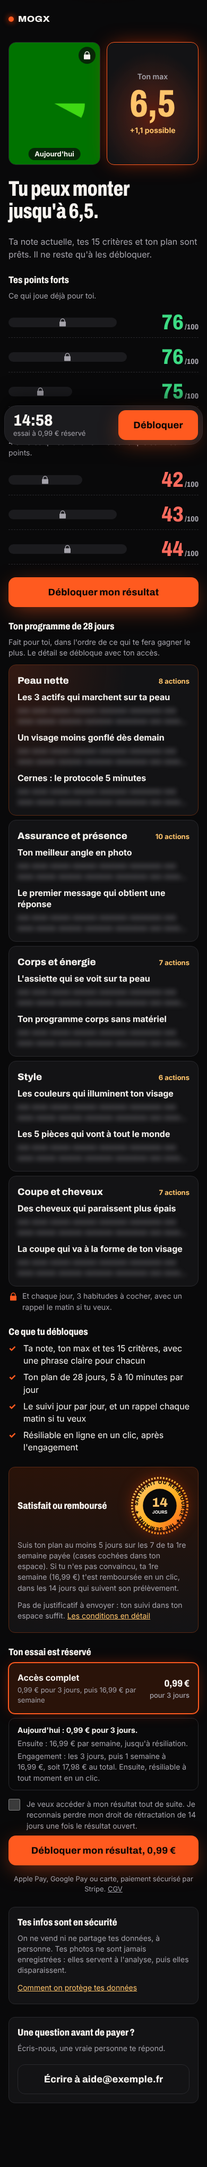
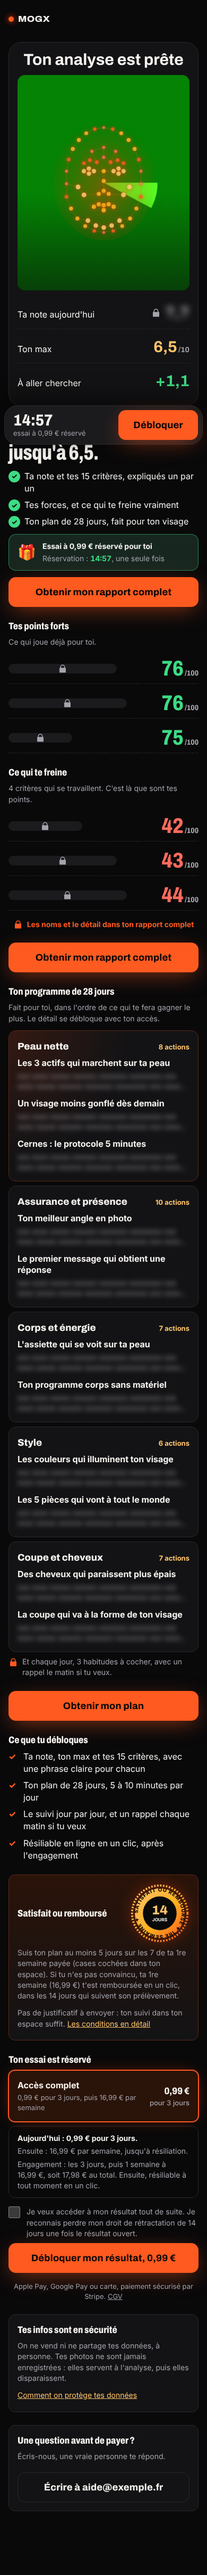
page de paiement plus poussée : analyse en grand sur la photo, avantages cochés, essai réservé avec le vrai minuteur, un bouton après chaque partie
Claude-Session: https://claude.ai/code/session_014jgUVVEcSY5o2hZDxT4Svp

diff --git a/src/q/app.js b/src/q/app.js
@@ -374,17 +374,31 @@ const VIEWS = {
     return `<main class="screen screen--sales">
       <div class="brand">MOGX</div>
       ${t.scanned ? `
-      <div class="duo">
-        <div class="duo__card">${scanPreview ? `<img src="${scanPreview}" alt="Ta photo">` : faceMesh({ className: "mesh" })}<span class="duo__tag">Aujourd'hui</span><span class="duo__lock">${lock}</span></div>
-        <div class="duo__card duo__card--hot"><span class="duo__label">Ton max</span><span class="duo__max">${esc(fr(t.max))}</span><span class="duo__gain">+${esc(fr(t.gain))} possible</span></div>
-      </div>
-      <h1 class="title title--hero" tabindex="-1">Tu peux monter jusqu'à ${esc(fr(t.max))}.</h1>
-      <p class="lead">Ta note actuelle, tes 15 critères et ton plan sont prêts. Il ne reste qu'à les débloquer.</p>
-      <section class="block"><h2 class="block__title">Tes points forts</h2><p class="block__lead">Ce qui joue déjà pour toi.</p>${t.strengths.map((f) => row(f, "hot")).join("")}</section>
-      <section class="block"><h2 class="block__title">Ce qui te freine</h2><p class="block__lead">${t.holding} critère${t.holding > 1 ? "s" : ""} qui se travaille${t.holding > 1 ? "nt" : ""}. C'est là que sont tes points.</p>${t.weaknesses.map((f) => row(f, "low")).join("")}</section>`
+      <section class="scanhero">
+        <h2 class="scanhero__title">Ton analyse est prête</h2>
+        <div class="scanhero__photo">${scanPreview ? `<img src="${scanPreview}" alt="Ta photo analysée">` : ""}${faceMesh({ className: "mesh scanhero__mesh" })}</div>
+        <div class="scanhero__rows">
+          <div class="scanhero__row"><span>Ta note aujourd'hui</span><b class="scanhero__locked">${lock}<i aria-hidden="true">?,?</i><span class="sr-only">cachée jusqu'au paiement</span></b></div>
+          <div class="scanhero__row"><span>Ton max</span><b class="scanhero__max">${esc(fr(t.max))}<small>/10</small></b></div>
+          <div class="scanhero__row"><span>À aller chercher</span><b class="scanhero__gain">+${esc(fr(t.gain))}</b></div>
+        </div>
+      </section>`
       : `<h1 class="title title--hero" tabindex="-1">Ton plan de 28 jours est prêt.</h1>
       <p class="lead">Fait d'après tes réponses, dans l'ordre de ce qui te pèse le plus.</p>`}
-      <button class="btn btn--primary" data-gopay>Débloquer mon résultat</button>
+      <section class="pitch">
+        ${t.scanned ? `<h1 class="title title--hero" tabindex="-1">Tu peux monter jusqu'à ${esc(fr(t.max))}.</h1>` : ""}
+        <ul class="pitch__list">
+          ${t.scanned ? "<li>Ta note et tes 15 critères, expliqués un par un</li><li>Tes forces, et ce qui te freine vraiment</li>" : "<li>Ton bilan d'après tes réponses</li>"}
+          <li>Ton plan de 28 jours, fait pour ${t.scanned ? "ton visage" : "toi"}</li>
+        </ul>
+        ${trial ? `<div class="reserved"><span class="reserved__icon" aria-hidden="true">🎁</span><span><b>Essai à ${esc(euros(o.intro))} réservé pour toi</b><span>Réservation : <b data-timer>--:--</b>, une seule fois</span></span></div>` : ""}
+        <button class="btn btn--primary" data-gopay>Obtenir mon rapport complet</button>
+      </section>
+      ${t.scanned ? `
+      <section class="block"><h2 class="block__title">Tes points forts</h2><p class="block__lead">Ce qui joue déjà pour toi.</p>${t.strengths.map((f) => row(f, "hot")).join("")}</section>
+      <section class="block"><h2 class="block__title">Ce qui te freine</h2><p class="block__lead">${t.holding} critère${t.holding > 1 ? "s" : ""} qui se travaille${t.holding > 1 ? "nt" : ""}. C'est là que sont tes points.</p>${t.weaknesses.map((f) => row(f, "low")).join("")}
+        <p class="more">${lock} Les noms et le détail dans ton rapport complet</p></section>
+      <button class="btn btn--primary" data-gopay>Obtenir mon rapport complet</button>` : ""}
       <section class="block"><h2 class="block__title">Ton programme de 28 jours</h2><p class="block__lead">Fait pour toi, dans l'ordre de ce qui te fera gagner le plus. Le détail se débloque avec ton accès.</p>
         ${(t.modules || []).map((m, i) => `<div class="module${i === 0 ? " module--first" : ""}">
           <div class="module__head"><span class="module__name">${esc(MODULES[m.domain] || m.domain)}</span><span class="module__count">${m.count} action${m.count > 1 ? "s" : ""}</span></div>
@@ -392,6 +406,7 @@ const VIEWS = {
         </div>`).join("")}
         ${t.habits ? `<p class="module__habits">${lock}<span>Et chaque jour, ${t.habits} habitude${t.habits > 1 ? "s" : ""} à cocher, avec un rappel le matin si tu veux.</span></p>` : ""}
       </section>
+      <button class="btn btn--primary" data-gopay>Obtenir mon plan</button>
       <section class="block"><h2 class="block__title">Ce que tu débloques</h2>
         <ul class="includes">
           ${t.scanned ? "<li>Ta note, ton max et tes 15 critères, avec une phrase claire pour chacun</li>" : "<li>Ton bilan d'après tes réponses</li>"}
@@ -756,7 +771,9 @@ function startTimer() {
     const left = S.pw.offer.expires_at - (Date.now() + skew);
     if (left <= 0) { clearInterval(timerTick); S.pw = null; save(); loadPaywall().catch(() => {}); return; }
     const m = Math.floor(left / 60e3), s = Math.floor((left % 60e3) / 1e3);
-    el.textContent = `${m}:${String(s).padStart(2, "0")}`;
+    const txt = `${m}:${String(s).padStart(2, "0")}`;
+    el.textContent = txt;
+    document.querySelectorAll("[data-timer]").forEach((x) => { x.textContent = txt; });
   };
   update(); timerTick = setInterval(update, 1000);
 }

diff --git a/src/q/quiz.css b/src/q/quiz.css
@@ -284,3 +284,30 @@
 .example__art--profile img { display: block; width: 100%; height: 100%; object-fit: cover; }
 .body-photo { display: block; width: 100%; height: auto; aspect-ratio: 1 / 1; flex: none; object-fit: cover; border-radius: var(--r-md); }
 .option--tile:has(.body-photo) { padding: var(--sp-2); }
+
+/* Page de paiement : l'analyse en grand, le pitch, l'essai réservé */
+.scanhero { display: grid; gap: var(--sp-3); padding: var(--sp-4); border: 1px solid var(--c-border); border-radius: var(--r-xl); background: var(--c-surface); }
+.scanhero__title { margin: 0; text-align: center; font-family: var(--font-display); font-size: var(--fs-xl); line-height: 1.1; }
+.scanhero__photo { position: relative; aspect-ratio: 4 / 5; border-radius: var(--r-lg); overflow: hidden; background: var(--c-bg); display: grid; place-items: center; }
+.scanhero__photo img { position: absolute; inset: 0; width: 100%; height: 100%; object-fit: cover; filter: saturate(.9) contrast(1.05); }
+.scanhero__photo::after { content: ""; position: absolute; inset: 0; background: linear-gradient(to top, color-mix(in srgb, var(--c-bg) 55%, transparent), transparent 45%); }
+.scanhero__mesh { position: relative; z-index: 1; width: 62%; opacity: .9; }
+.scanhero__rows { display: grid; gap: var(--sp-1); }
+.scanhero__row { display: flex; align-items: baseline; justify-content: space-between; gap: var(--sp-3); padding: var(--sp-2) 0; border-bottom: 1px dashed var(--c-border); font-size: var(--fs-base); }
+.scanhero__row:last-child { border-bottom: 0; }
+.scanhero__row b { font-family: var(--font-display); font-size: var(--fs-xl); font-variant-numeric: tabular-nums; }
+.scanhero__locked { display: inline-flex; align-items: center; gap: var(--sp-2); color: var(--c-text-muted); }
+.scanhero__locked i { font-style: normal; filter: blur(6px); }
+.scanhero__max { color: var(--c-gold); }
+.scanhero__max small { font-size: var(--fs-sm); color: var(--c-text-muted); margin-left: 2px; }
+.scanhero__gain { color: var(--c-success); }
+.pitch { display: grid; gap: var(--sp-3); }
+.pitch__list { list-style: none; margin: 0; padding: 0; display: grid; gap: var(--sp-2); }
+.pitch__list li { display: flex; gap: var(--sp-2); align-items: flex-start; font-size: var(--fs-base); }
+.pitch__list li::before { content: "✓"; flex: none; width: 22px; height: 22px; border-radius: 50%; display: grid; place-items: center; background: var(--c-success); color: var(--c-bg); font-weight: 800; font-size: 13px; margin-top: 1px; }
+.reserved { display: flex; gap: var(--sp-3); align-items: center; padding: var(--sp-3) var(--sp-4); border: 1px solid color-mix(in srgb, var(--c-success) 50%, transparent); border-radius: var(--r-lg); background: color-mix(in srgb, var(--c-success) 10%, var(--c-surface)); }
+.reserved__icon { font-size: 28px; }
+.reserved > span:last-child { display: grid; gap: 2px; font-size: var(--fs-sm); color: var(--c-text-muted); }
+.reserved b { color: var(--c-text); }
+.reserved [data-timer] { color: var(--c-success); font-variant-numeric: tabular-nums; }
+.more { display: flex; gap: var(--sp-2); align-items: center; justify-content: center; margin: var(--sp-2) 0 0; color: var(--c-accent); font-weight: 700; font-size: var(--fs-sm); }
